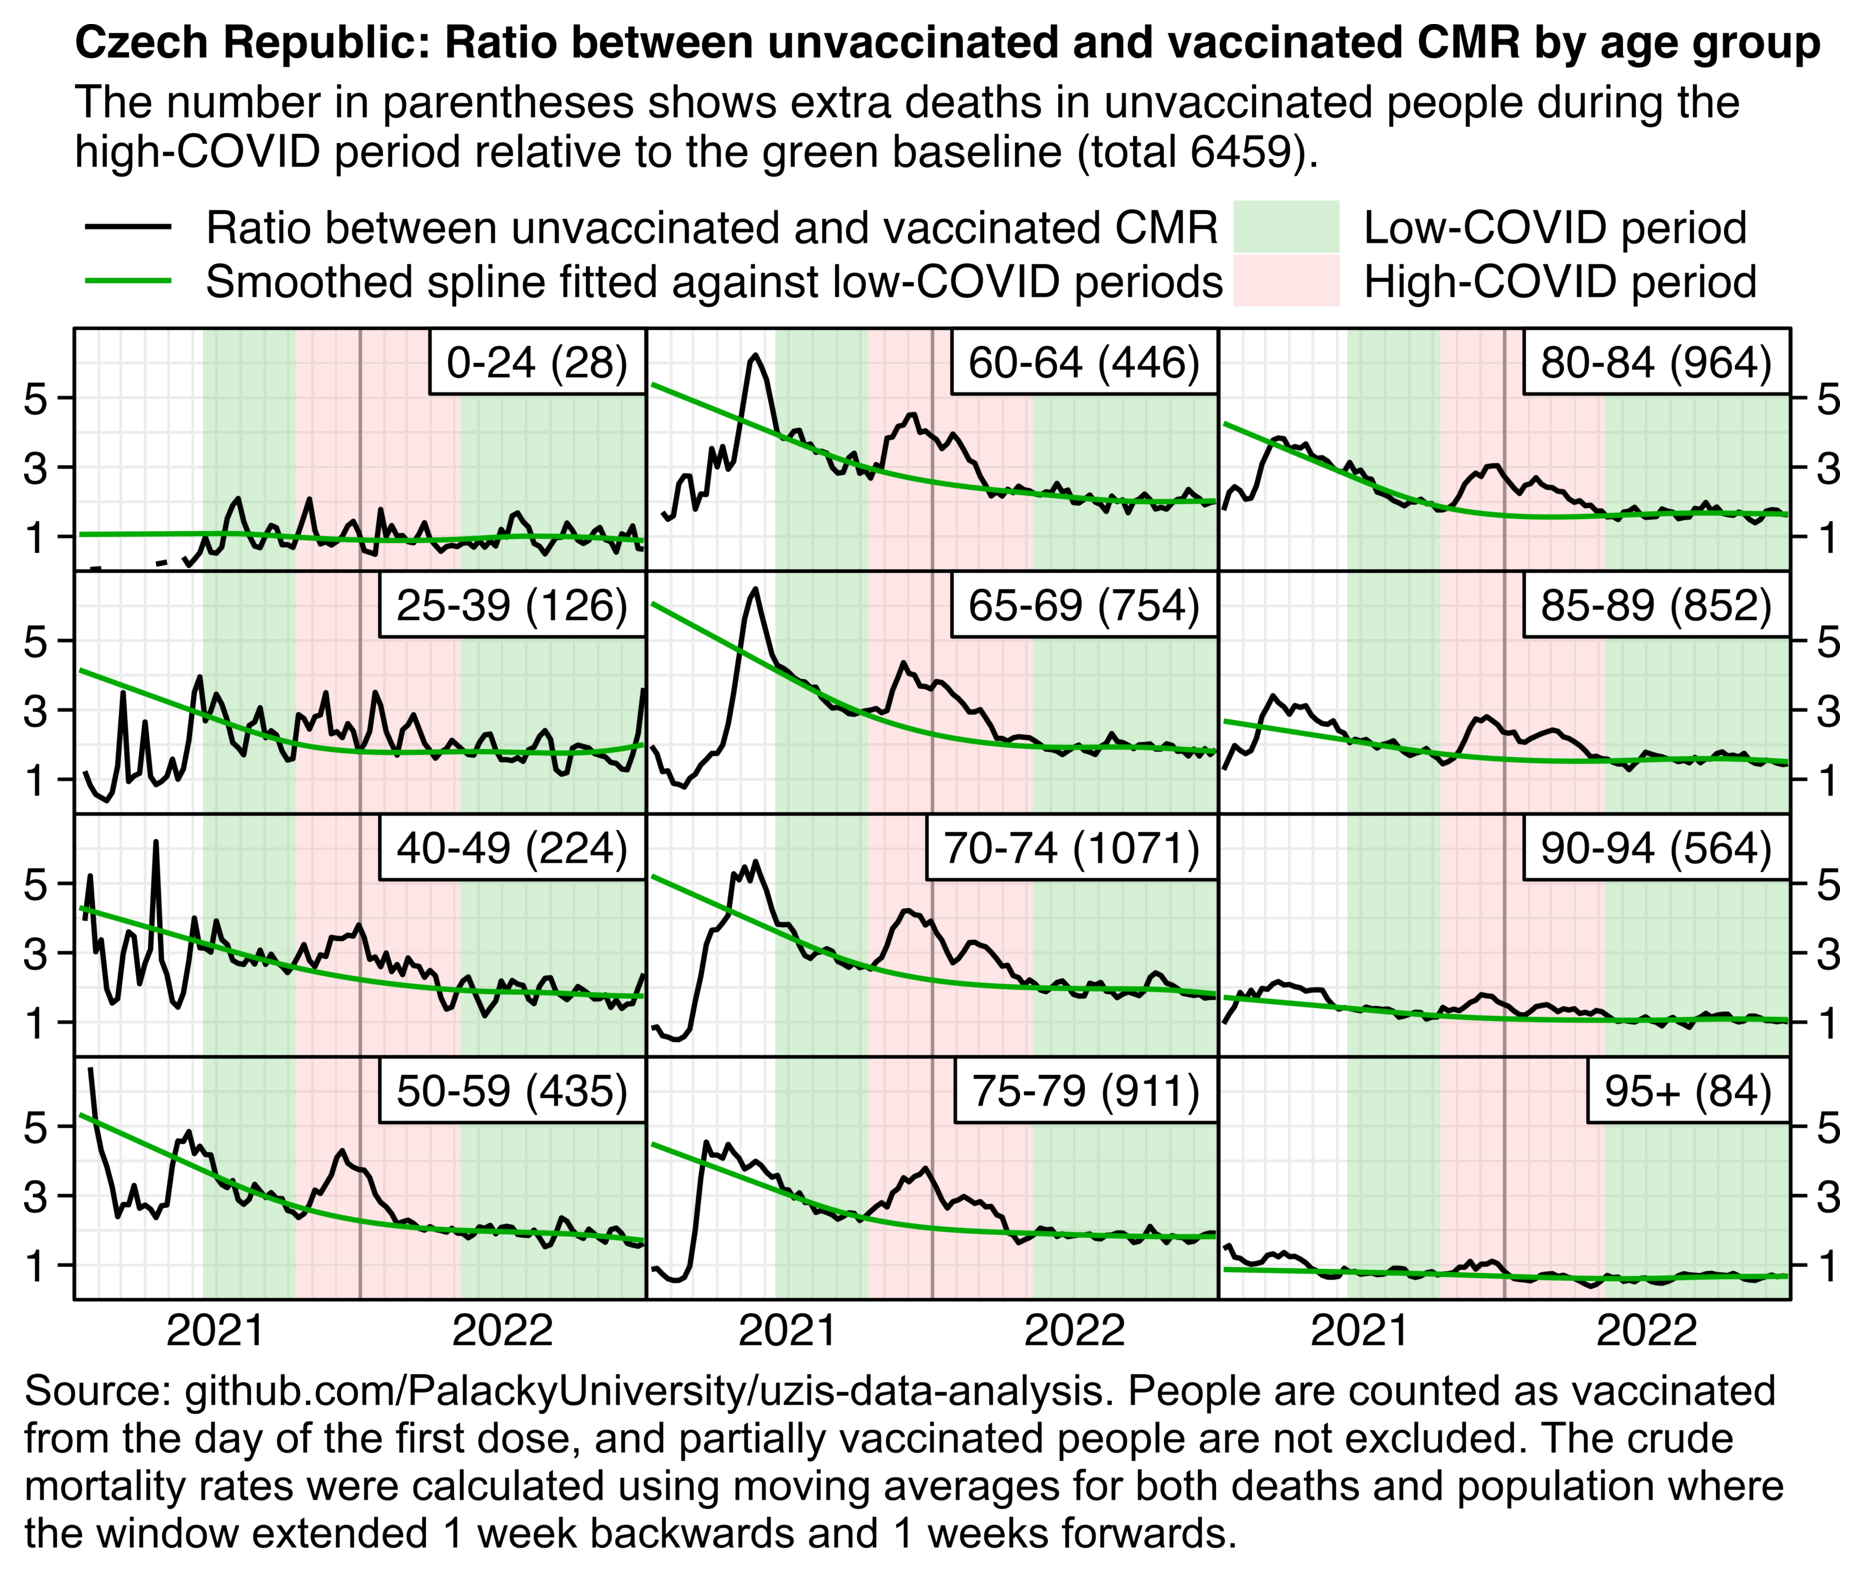
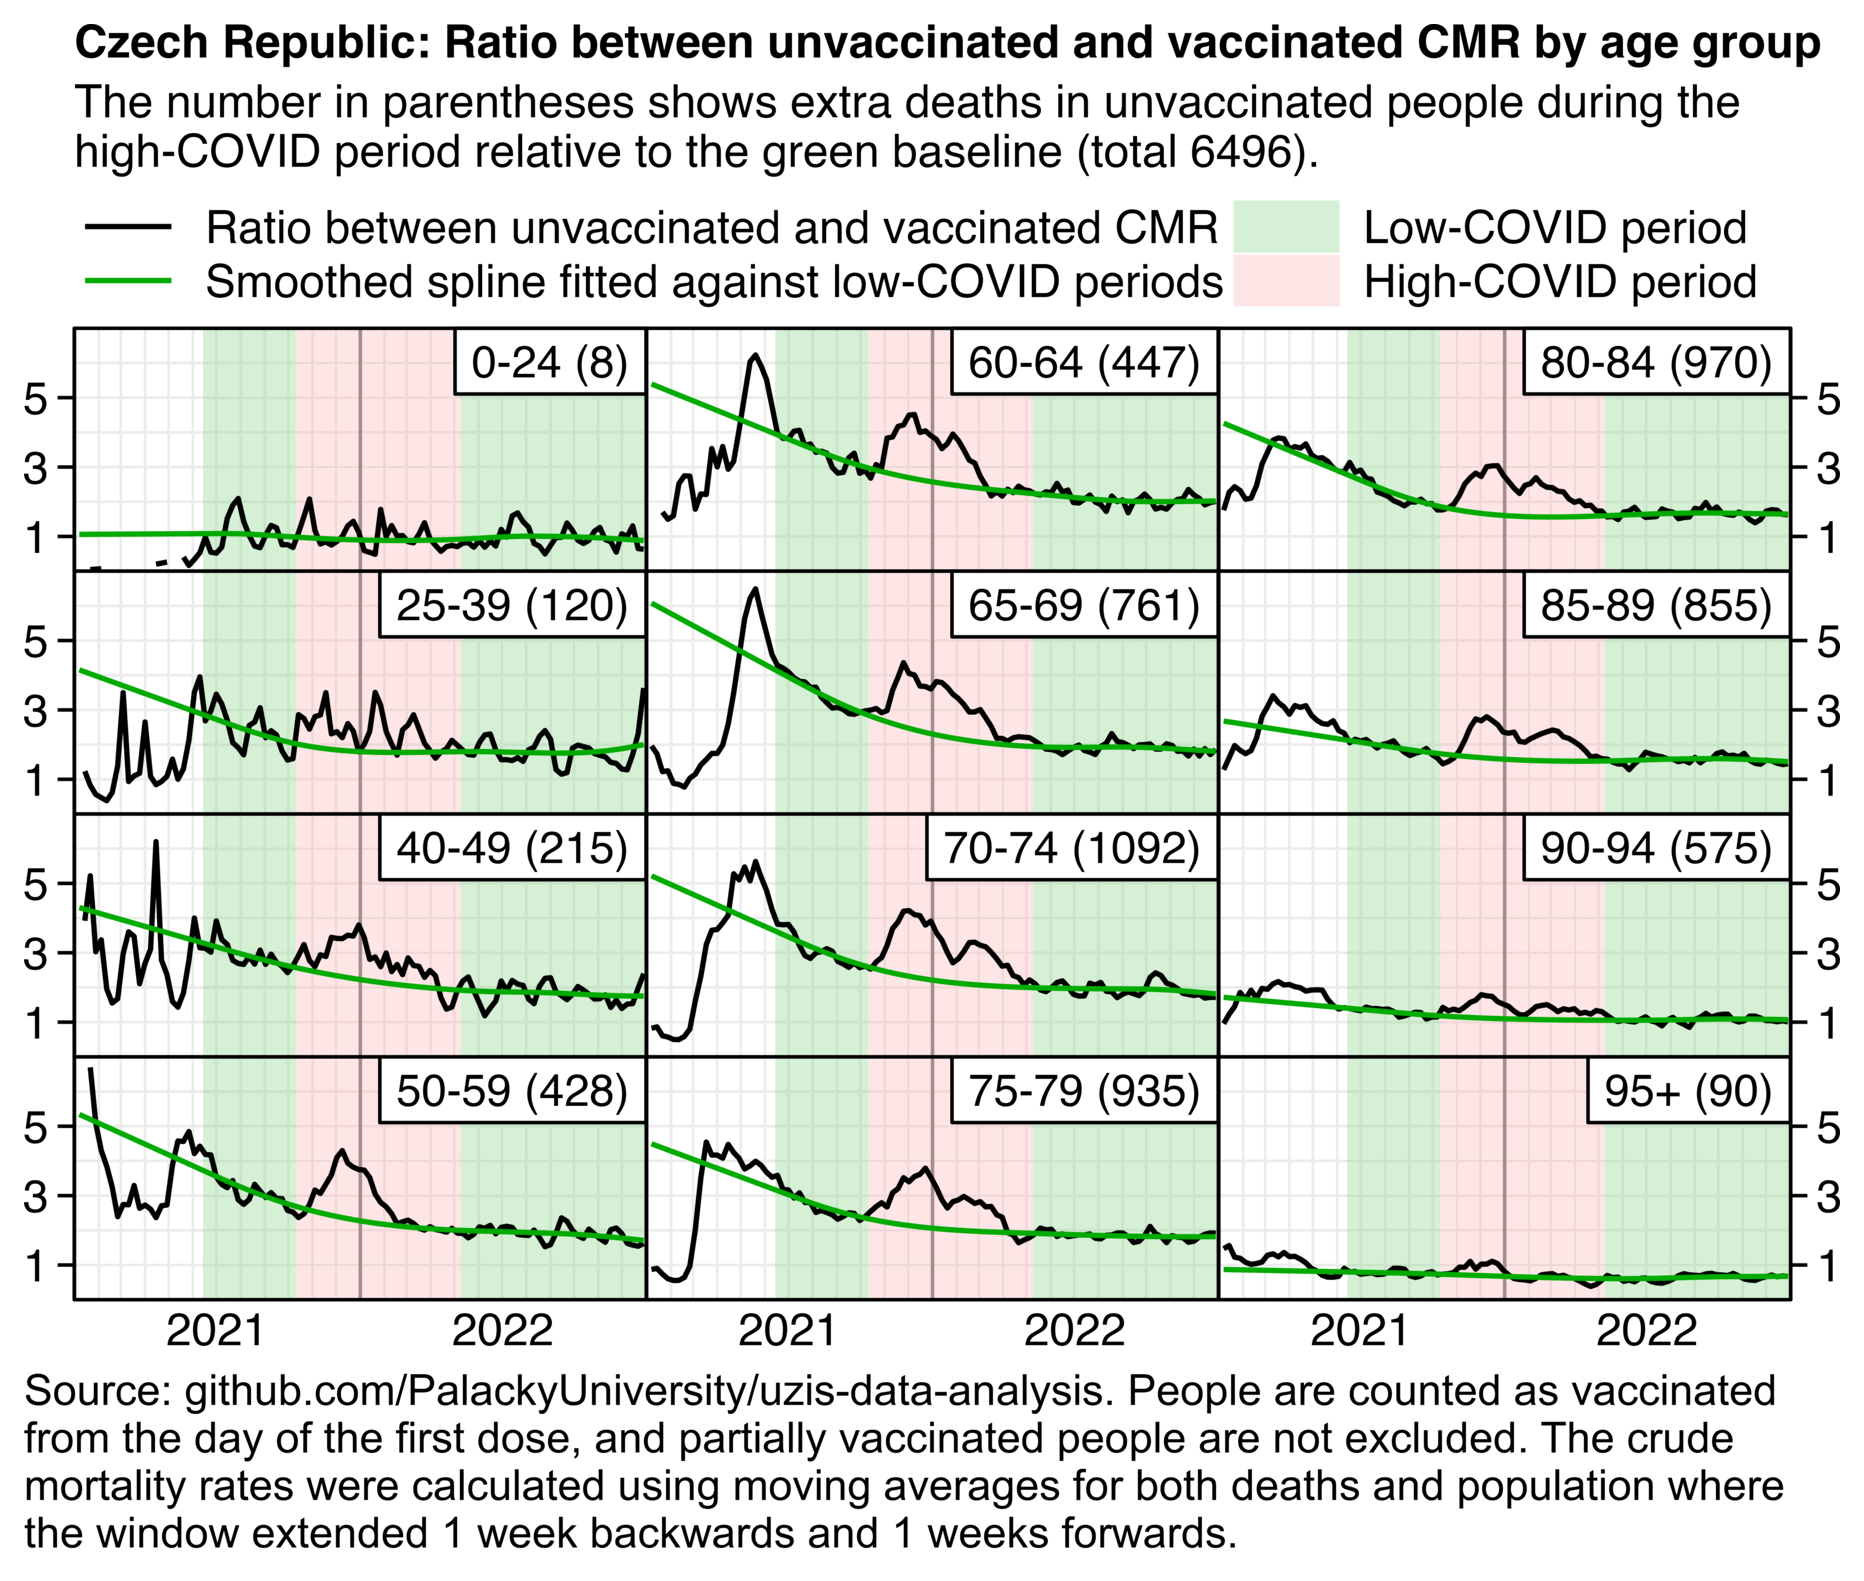
a

diff --git a/rootclaim3.html b/rootclaim3.html
@@ -2139,7 +2139,7 @@ hl[,label:=factor(c(1,1,2),,c(&quot;Low-COVID period&quot;,&quot;High-COVID peri
 
 saved=dcast(p,x+age~as.integer(type),value.var=&quot;y&quot;)[x%in%iso[&quot;2021-41&quot;]:iso[&quot;2022-18&quot;]]
 saved=merge(saved,a[dose==0,.(dead=sum(dead)),.(x=iso[week],age)])
-saved=saved[,.(sum(dead)-sum(dead)/(sum(`1`)/sum(`2`))),age]$V1
+saved=saved[,.(sum(dead-dead/(`1`/`2`))),age]$V1
 levels(p$age)=paste0(levels(p$age),&quot; (&quot;,round(saved),&quot;)&quot;)
 
 ggplot(p)+
@@ -2187,9 +2187,10 @@ ggsave(&quot;1.png&quot;,width=6.2,height=4.6,dpi=300*4)
 sub=&quot;Source: github.com/PalackyUniversity/uzis-data-analysis. People are counted as vaccinated from the day of the first dose, and partially vaccinated people are not excluded. The crude mortality rates were calculated using moving averages for both deaths and population where the window extended 1 week backwards and 1 weeks forwards.&quot;
 system(paste0(&quot;mogrify -trim 1.png;magick 1.png \\( -size `identify -format %w 1.png`x -font Arial -interline-spacing -3 -pointsize $[43*4] caption:&#39;&quot;,gsub(&quot;&#39;&quot;,&quot;&#39;\\\\&#39;&quot;,sub),&quot;&#39; -splice x80 \\) -append -resize 25% -bordercolor white -border 24 -dither none -colors 256 1.png&quot;))</pre>
 </div>
-<p>I got a total of 6,459 extra deaths in unvaccinated people during the high-COVID period. When I applied my previous method of estimating lives saved based on COVID deaths to the same period of weeks, it gave me a total of 28,953 lives saved.</p>
-<p>It took me a while to figure out why the number of deaths was now only about a fifth of the number using my previous method. But then I realized it was because in the elderly age groups with the most COVID deaths, the vaccinated population size was bigger than the unvaccinated population size. And the bigger number I calculated with my previous methodology represented the lives saved in vaccinated people relative to a counterfactual scenario where no-one was vaccinated, so it was a product of the vaccinated population size. But the smaller number I calculated with my new methodology represented the number of extra deaths in unvaccinated people, so it was a product of the unvaccinated population size.</p>
-<p>In the following code I modified my new method so that instead I calculated the lives saved in vaccinated people relative to a counterfactual scenario where vaccinated people had the same relative increase in mortality as unvaccinated people. So I now divided the ratio between unvaccinated and vaccinated CMR with the baseline spline ratio, I multiplied the result by the number of deaths in vaccinated people, and I subtracted the actual deaths in vaccinated people. However I still got only 19,368 lives saved which was lower than the figure based on my earlier methodology, but I don't know why:</p>
+<p>So for example on week 48 of 2021 in ages 70-74, unvaccinated people had about 4.214 times higher crude mortality rate than vaccinated people. But if the ratio would've followed the trend in low-COVID periods, the spline fitted against the low-COVID periods showed that unvaccinated people should've had only about 2.321 times higher CMR than vaccinated people. So the actual ratio was about 1.815 times higher than the baseline ratio on the same week. In ages 70-74 on week 48 of 2021, the ±1-week moving average for deaths in unvaccinated people was about 184.333. So I calculated the number of extra deaths in unvaccinated people as <code>184.333-184.333/1.815</code>, which is about 83. And then I calculated the total extra deaths by adding together the number of extra deaths across all age groups and all weeks.</p>
+<p>I got a total of 6,496 extra deaths in unvaccinated people during the high-COVID period. When I applied my previous method of estimating lives saved based on COVID deaths to the same period of weeks, it gave me a total of 28,953 lives saved.</p>
+<p>It took me a while to figure out why the number of deaths was now only about a fourth of the number using my previous method. But then I realized it was because in the elderly age groups with the most COVID deaths, the vaccinated population size was bigger than the unvaccinated population size. And the bigger number I calculated with my previous methodology represented the lives saved in vaccinated people relative to a counterfactual scenario where no-one was vaccinated, so it was a product of the vaccinated population size. But the smaller number I calculated with my new methodology represented the number of extra deaths in unvaccinated people, so it was a product of the unvaccinated population size.</p>
+<p>In the following code I modified my new method so that instead I calculated the lives saved in vaccinated people relative to a counterfactual scenario where vaccinated people had the same relative increase in mortality during the high-COVID period as unvaccinated people. So I now divided the ratio between unvaccinated and vaccinated CMR with the baseline spline ratio, I multiplied the result by the number of deaths in vaccinated people, and I subtracted the actual deaths in vaccinated people. However I still got only 19,368 lives saved which was lower than the figure based on my earlier methodology, but I don't know why:</p>
 <pre># divide ages to age groups
 ages=c(0,25,40,50,seq(60,95,5))
 agecut=\(x,y)cut(x,c(y,Inf),paste0(y,c(paste0(&quot;-&quot;,y[-1]-1),&quot;+&quot;)),T,F)
@@ -2199,7 +2200,8 @@ agecut=\(x,y)cut(x,c(y,Inf),paste0(y,c(paste0(&quot;-&quot;,y[-1]-1),&quot;+&quo
 t=fread(&quot;http://sars2.net/f/czbucketsdaily.csv.gz&quot;)
 a=t[,.(dead=sum(dead),pop=sum(alive)),,.(age=agecut(age,ages),dose=pmin(dose,1),week=format(date,&quot;%G-%V&quot;))]
 
-# take moving averages (not really necessary here but retained to remain consistent with other code)
+# convert deaths and population sizes to a moving average where the window extends 1 week in both directions
+# this is not really necessary here but it&#39;s retained to remain consistent with my other code
 ma=\(x,b=1,f=b){x[]=rowMeans(embed(c(rep(NA,b),x,rep(NA,f)),f+b+1),na.rm=T);x}
 a=a[,.(dead=ma(dead,1),pop=ma(pop,1),week),.(dose,age)]
 
